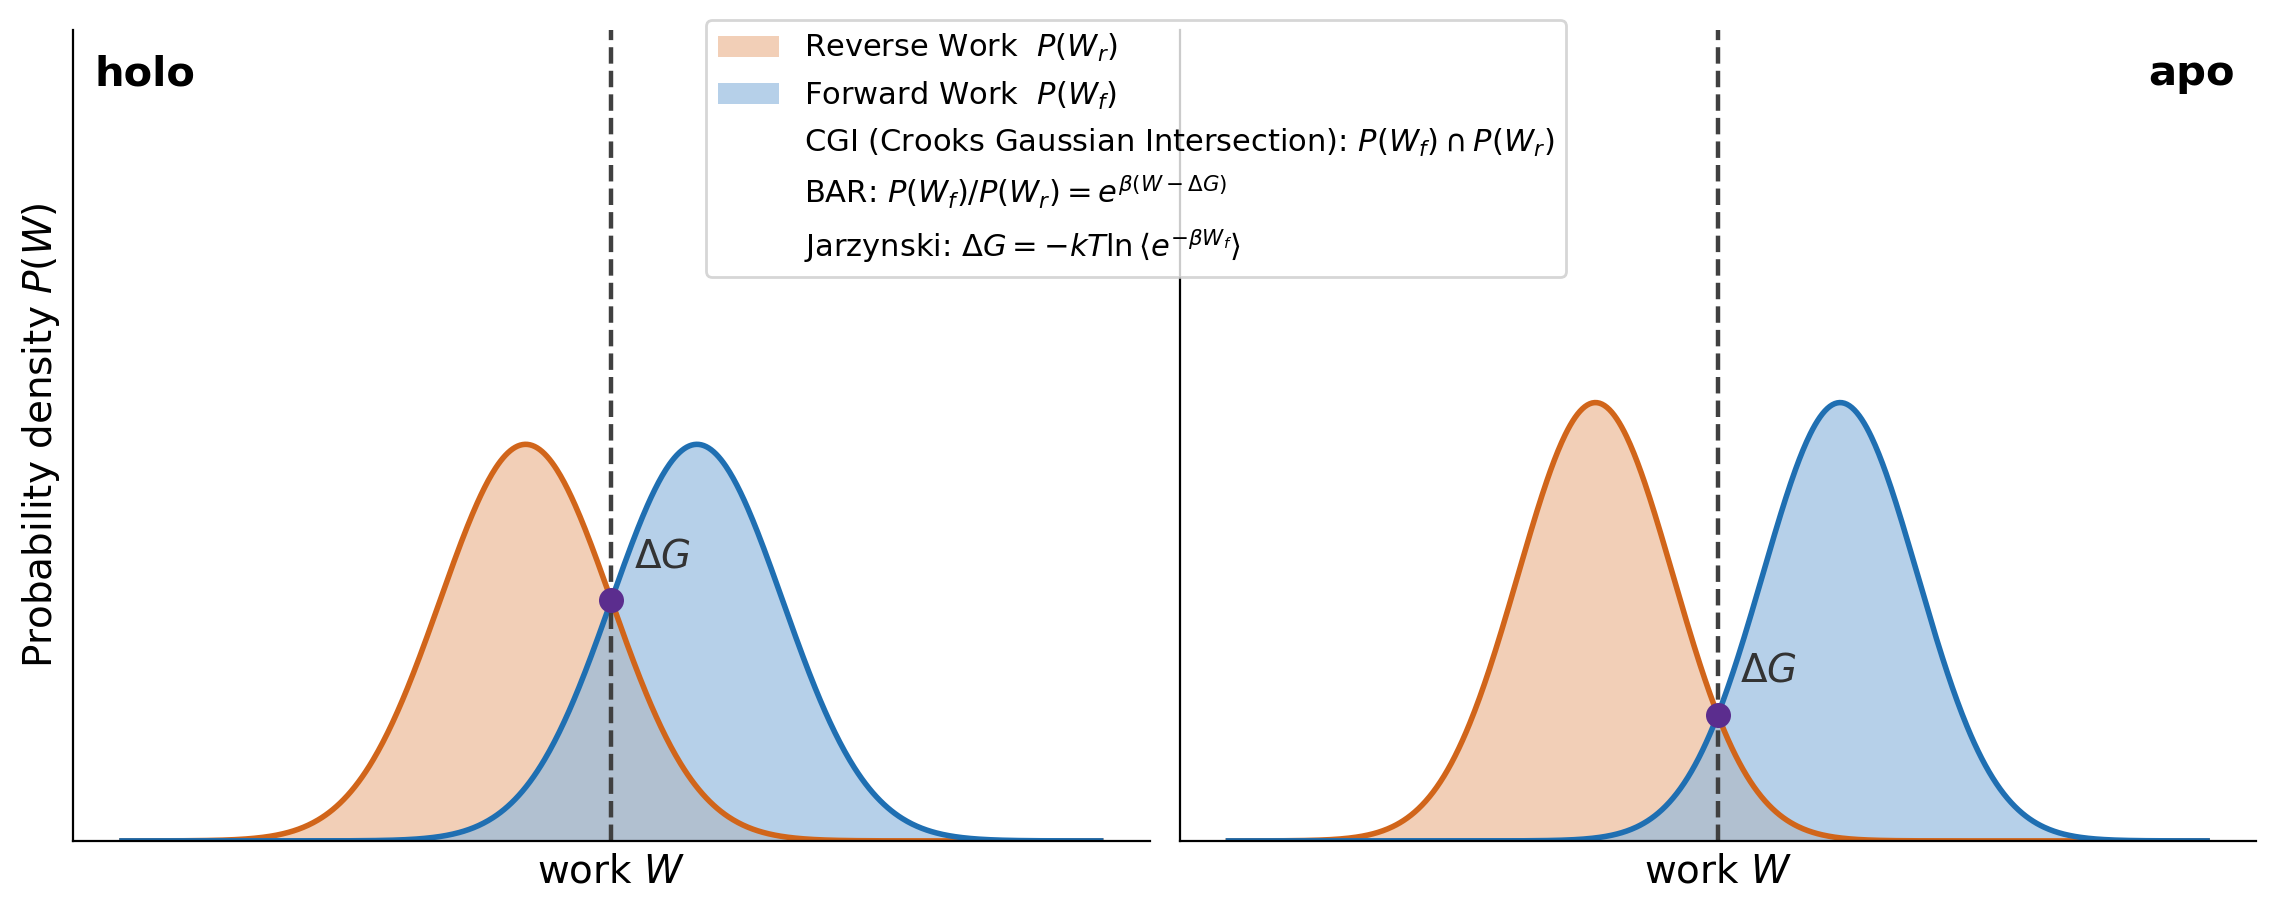
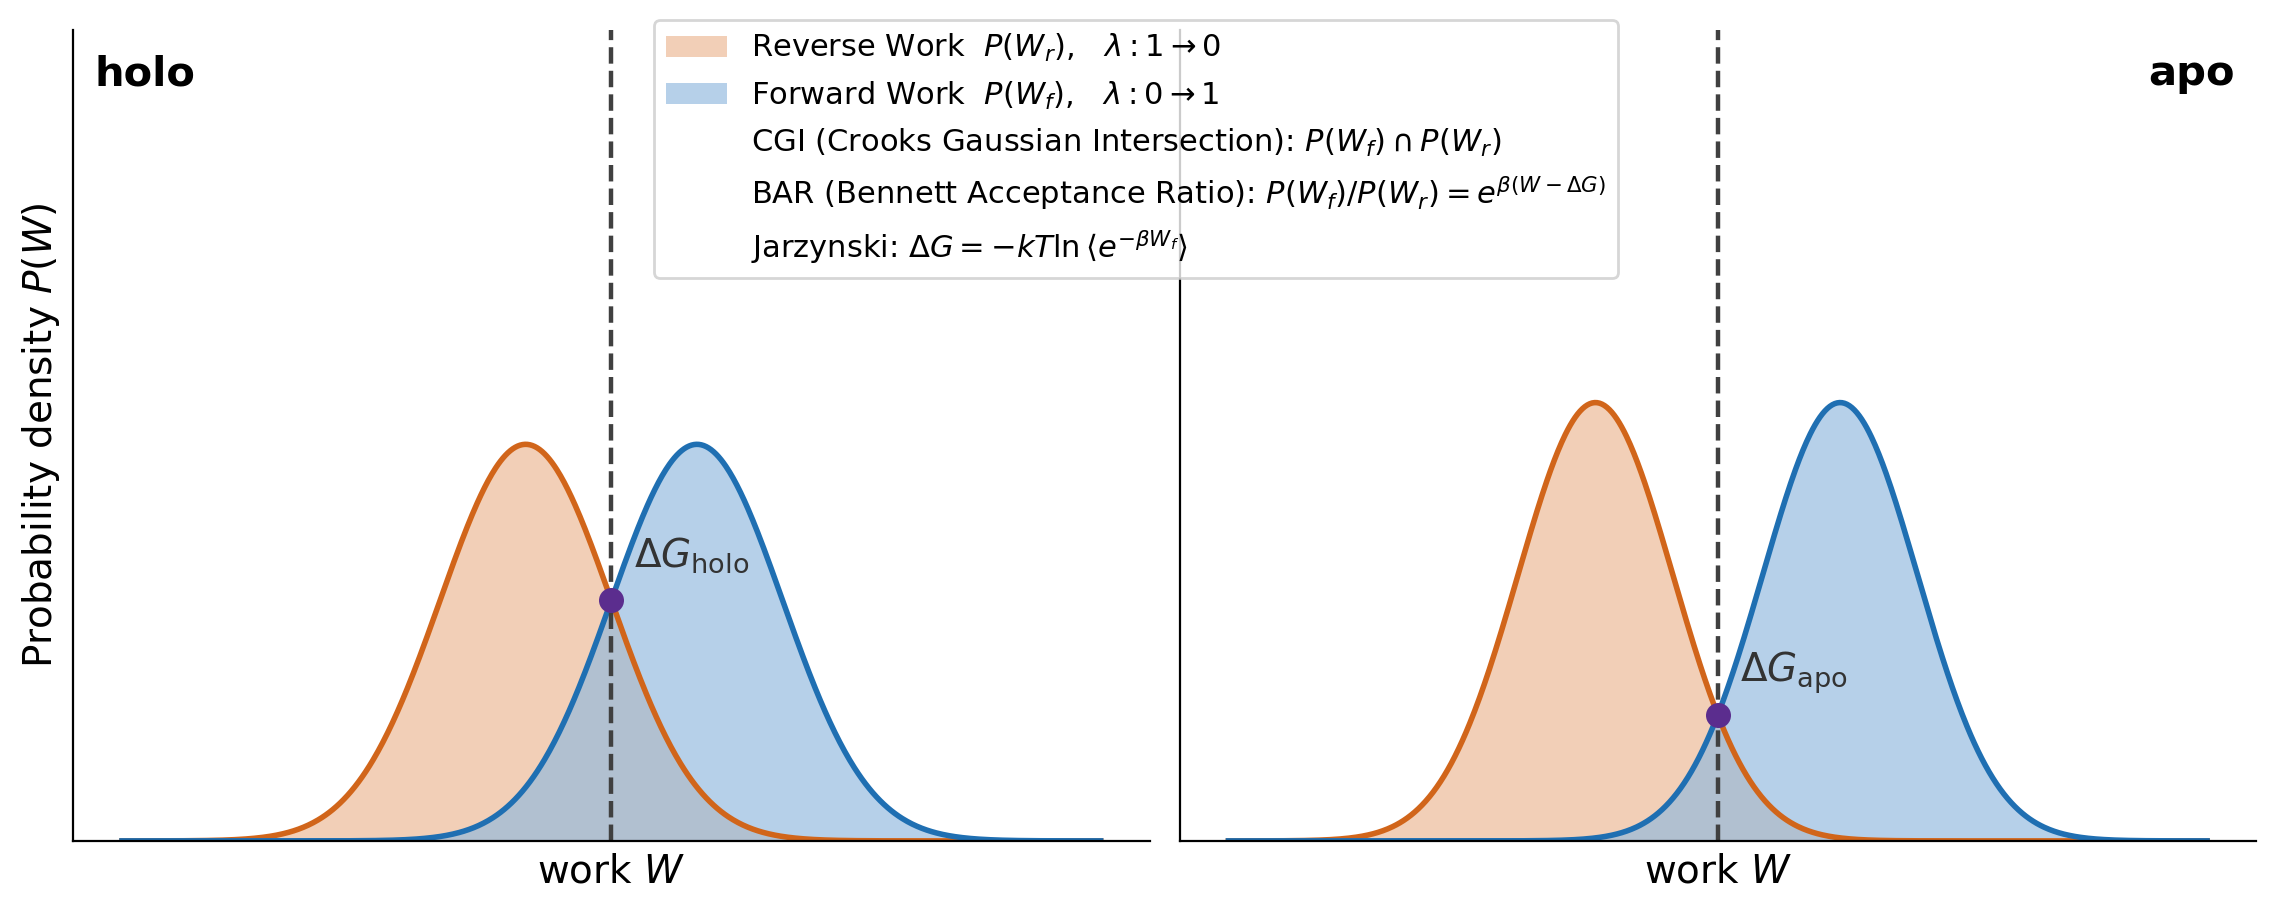
fep_pmx: spell out BAR, label lambda directions, subscript the dG markers
BAR expanded to Bennett Acceptance Ratio (pmx's analyse header uses that name,
matching the CGI expansion). Legend entries now state the alchemical direction --
forward lambda 0->1, reverse lambda 1->0 -- taken from pmx's own 'forward (0->1)' /
'reverse (1->0)' trajectory counts rather than assumed. The crossing marker in each
panel is labelled dG_holo / dG_apo, so the figure connects directly to the
ddG_bind = dG_holo - dG_apo relation in figure 01.

diff --git a/scripts/fep_pmx/plot_protocol_schematic.py b/scripts/fep_pmx/plot_protocol_schematic.py
@@ -39,7 +39,7 @@ OUT_DIR = Path("results/analysis/fep_pmx/protocol_schematic")
 # Gaussian to each work distribution and takes dG as their crossing, which follows
 # from the Crooks relation being unity at W = dG.
 EST_CGI = r"CGI (Crooks Gaussian Intersection): $P(W_f) \cap P(W_r)$"
-EST_BAR = r"BAR: $P(W_f)/P(W_r) = e^{\beta(W - \Delta G)}$"
+EST_BAR = r"BAR (Bennett Acceptance Ratio): $P(W_f)/P(W_r) = e^{\beta(W - \Delta G)}$"
 EST_JARZ = r"Jarzynski: $\Delta G = -kT\ln\langle e^{-\beta W_f}\rangle$"
 
 
@@ -198,8 +198,10 @@ def plot_work_distributions(out_path: Path) -> None:
         # Titles sit at the OUTER top corner of each panel so the centred legend
         # cannot cover them.
         {"ax": axes[0], "title": "holo", "tx": 0.02, "ha": "left",
+         "dg": r"$\Delta G_{\mathrm{holo}}$",
          "mu_f": 1.05, "mu_r": -1.05, "sig": 1.05},
         {"ax": axes[1], "title": "apo", "tx": 0.98, "ha": "right",
+         "dg": r"$\Delta G_{\mathrm{apo}}$",
          "mu_f": 1.5, "mu_r": -1.5, "sig": 0.95},
     ]
     x = np.linspace(-6, 6, 800)
@@ -207,8 +209,8 @@ def plot_work_distributions(out_path: Path) -> None:
         ax = sp["ax"]
         yf = _gauss(x, sp["mu_f"], sp["sig"])
         yr = _gauss(x, sp["mu_r"], sp["sig"])
-        ax.fill_between(x, yr, color="#e8a87c", alpha=0.55, lw=0, label=r"Reverse Work  $P(W_r)$")
-        ax.fill_between(x, yf, color="#8fb8de", alpha=0.65, lw=0, label=r"Forward Work  $P(W_f)$")
+        ax.fill_between(x, yr, color="#e8a87c", alpha=0.55, lw=0, label=r"Reverse Work  $P(W_r)$,   $\lambda: 1 \rightarrow 0$")
+        ax.fill_between(x, yf, color="#8fb8de", alpha=0.65, lw=0, label=r"Forward Work  $P(W_f)$,   $\lambda: 0 \rightarrow 1$")
         ax.plot(x, yr, color="#d1651a", lw=2.0)
         ax.plot(x, yf, color="#1f6fb2", lw=2.0)
         # The three estimators coincide at the crossing when the work is Gaussian;
@@ -216,7 +218,7 @@ def plot_work_distributions(out_path: Path) -> None:
         ax.axvline(0.0, color="0.25", lw=1.6, ls="--")
         ax.plot([0.0], [_gauss(0.0, sp["mu_f"], sp["sig"])], "o", color="#5b2d8e",
                 markersize=8, zorder=5)
-        ax.annotate(r"$\Delta G$", (0.0, _gauss(0.0, sp["mu_f"], sp["sig"])),
+        ax.annotate(sp["dg"], (0.0, _gauss(0.0, sp["mu_f"], sp["sig"])),
                     textcoords="offset points", xytext=(8, 12), fontsize=14,
                     color="0.2", fontweight="bold")
         # Headroom so the centred legend clears the curves instead of needing a
